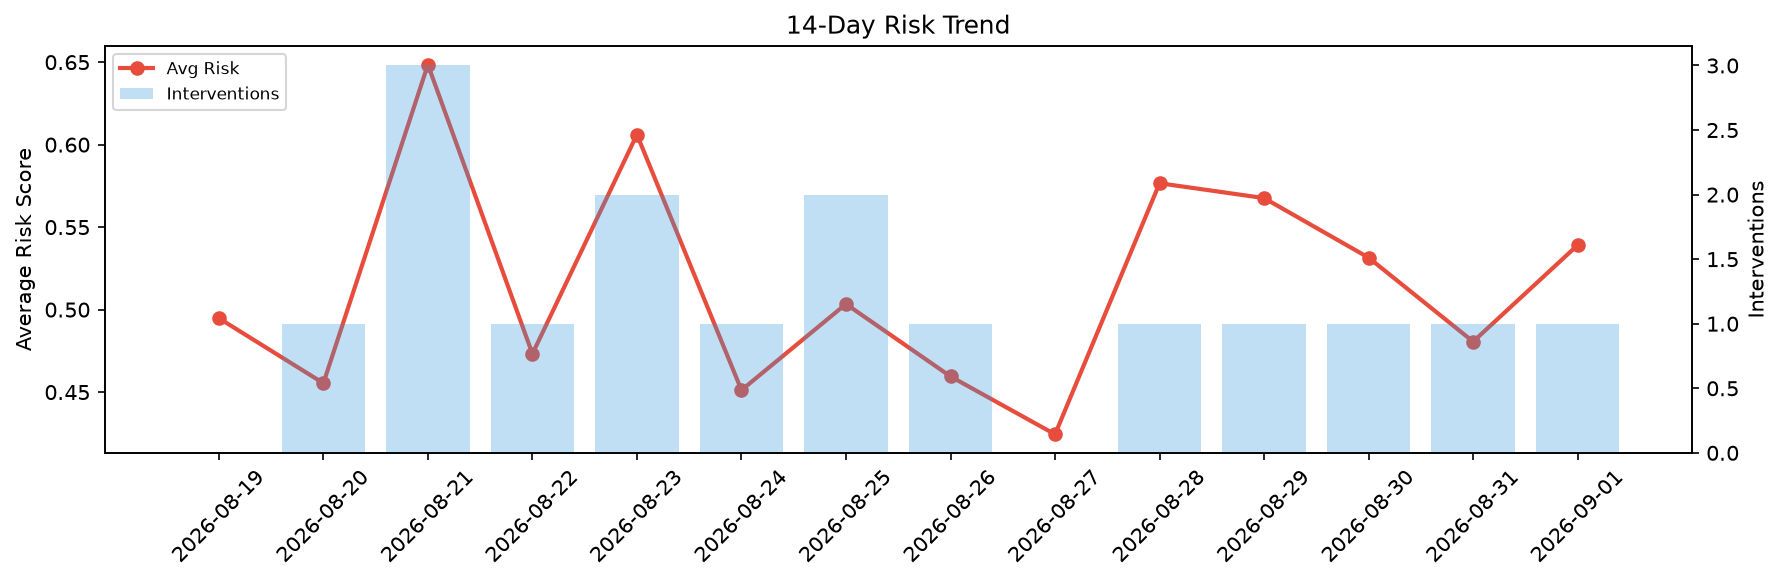
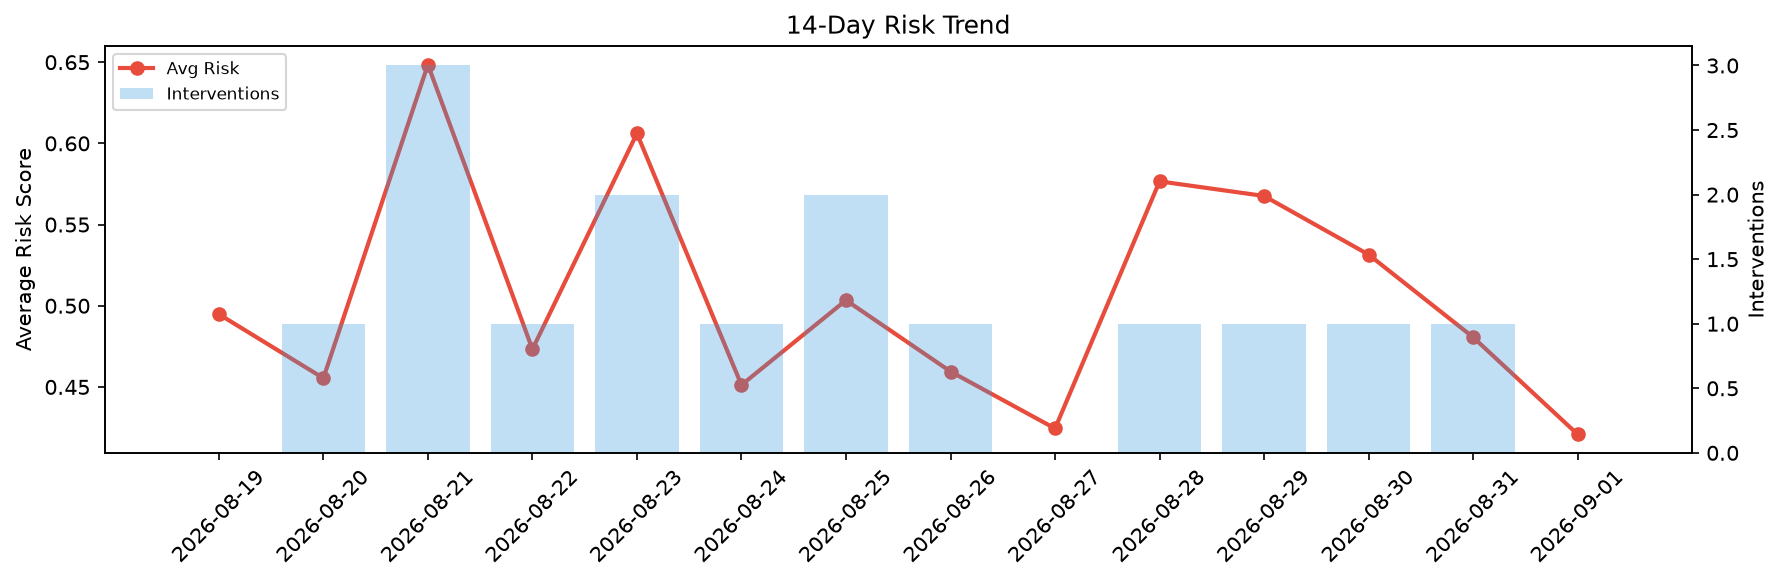
agent-improvement: daily cycle 2026-09-01T17:49

diff --git a/logs/2026-09-01.md b/logs/2026-09-01.md
@@ -1,6 +1,6 @@
 # Agent Improvement Report — 2026-09-01
 
-**Cycle ID:** `2c65cb89` | **Avg Risk:** 0.5391 | **Interventions:** 1/4
+**Cycle ID:** `f3418abe` | **Avg Risk:** 0.4208 | **Interventions:** 0/4
 
 ![Dashboard](2026-09-01_dashboard.png)
 
@@ -10,18 +10,18 @@
 
 | Domain | Risk Score | Decision | Alerts |
 |--------|-----------|----------|--------|
-| code_review | 0.6236 | intervene | none |
-| incident_response | 0.5163 | monitor | blast_radius |
-| data_pipeline | 0.5145 | monitor | schema_drift |
-| deployment | 0.502 | monitor | none |
+| code_review | 0.4133 | monitor | complexity |
+| incident_response | 0.3415 | monitor | none |
+| data_pipeline | 0.5289 | monitor | freshness |
+| deployment | 0.3994 | monitor | canary_error |
 
 ## Delta vs Yesterday
 
 | Domain | Today | Yesterday | Change |
 |--------|-------|-----------|--------|
-| code_review | 0.6236 | 0.4803 | 📈 29.8% |
-| incident_response | 0.5163 | 0.4637 | 📈 11.3% |
-| data_pipeline | 0.5145 | 0.3038 | 📈 69.4% |
-| deployment | 0.502 | 0.6746 | 📉 -25.6% |
+| code_review | 0.4133 | 0.4803 | 📉 -13.9% |
+| incident_response | 0.3415 | 0.4637 | 📉 -26.4% |
+| data_pipeline | 0.5289 | 0.3038 | 📈 74.1% |
+| deployment | 0.3994 | 0.6746 | 📉 -40.8% |
 
 **Refinement:** `{'adjustment': 'maintain', 'trend': 'improving', 'window': 4}`
